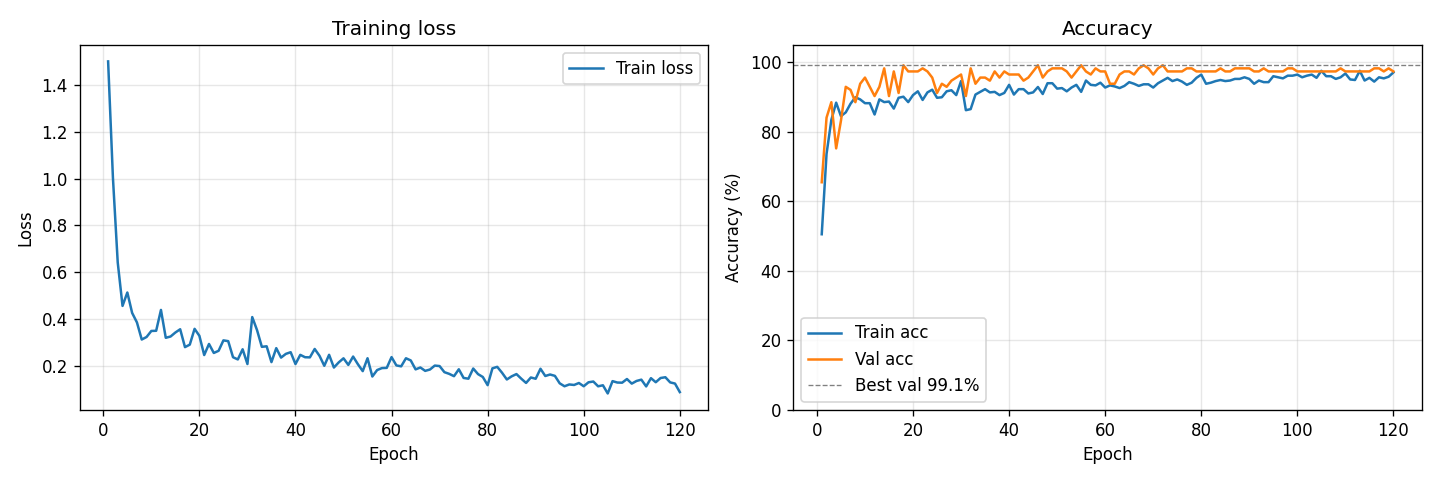
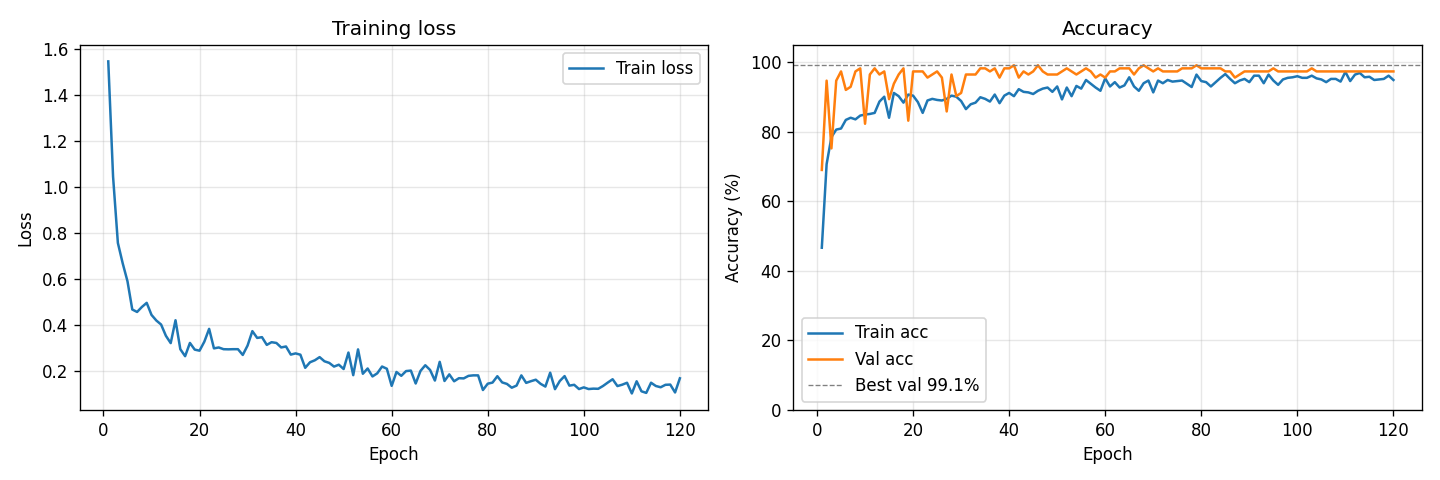
improved again

diff --git a/src/composables/useVoiceInput.js b/src/composables/useVoiceInput.js
@@ -29,16 +29,34 @@ export function useVoiceInput({ lang, onNote, micThreshold }) {
   // ── Result handling ──────────────────────────────────────────────
   let heardTimer       = null
   let processingLocked = false
-  let lastNoteAt       = 0          // debounce: ms timestamp of last accepted note
-  const DEBOUNCE_MS    = 700        // ignore new detections for this long after a hit
+  let lastNoteAt       = 0     // debounce: ms timestamp of last accepted note
+  const DEBOUNCE_MS    = 700
+
+  // Temporal smoothing: require SMOOTH_N consecutive windows to agree before firing.
+  // Kills one-off wrong detections from ambiguous window positions.
+  const SMOOTH_N   = 2
+  let predHistory  = []   // recent [noteIdx, ...] (reset on null or mismatch)
 
   function handleResult({ note, label, conf }) {
     processingLocked = false
-    if (note === null || note === undefined) return
+
+    if (note === null || note === undefined) {
+      predHistory = []   // ambiguous window — reset streak
+      return
+    }
+
+    // Maintain a streak of identical predictions
+    if (predHistory.length > 0 && predHistory[predHistory.length - 1] !== note) {
+      predHistory = []   // different note — start fresh
+    }
+    predHistory.push(note)
+
+    if (predHistory.length < SMOOTH_N) return   // not enough agreement yet
 
     const now = performance.now()
-    if (now - lastNoteAt < DEBOUNCE_MS) return   // too soon after last accepted note
-    lastNoteAt = now
+    if (now - lastNoteAt < DEBOUNCE_MS) return
+    lastNoteAt  = now
+    predHistory = []
 
     rawTranscript.value = label
     lastHeard.value     = label

diff --git a/src/workers/kwsWorker.js b/src/workers/kwsWorker.js
@@ -94,23 +94,26 @@ function extractFeatures(samples) {
   const aligned = trimLeadingSilence(samples)
   const S = melSpec(aligned)   // (n_mels × n_frames)
 
-  const gMean = new Float32Array(n_mels)
-  const gStd  = new Float32Array(n_mels)
-  const oMean = new Float32Array(n_mels)
+  const gMean   = new Float32Array(n_mels)
+  const gStd    = new Float32Array(n_mels)
+  const oMean   = new Float32Array(n_mels)
+  const absDelta = new Float32Array(n_mels)
 
   for (let m = 0; m < n_mels; m++) {
-    let sum = 0, sum2 = 0, osum = 0
+    let sum = 0, sum2 = 0, osum = 0, dsum = 0
     for (let t = 0; t < n_frames; t++) { const v = S[m * n_frames + t]; sum += v; sum2 += v*v }
     for (let t = 0; t < onset_frames; t++) osum += S[m * n_frames + t]
+    for (let t = 0; t < n_frames - 1; t++) dsum += Math.abs(S[m * n_frames + t + 1] - S[m * n_frames + t])
     const mean = sum / n_frames
-    gMean[m] = mean
-    gStd[m]  = Math.sqrt(sum2/n_frames - mean*mean)
-    oMean[m] = osum / onset_frames
+    gMean[m]    = mean
+    gStd[m]     = Math.sqrt(sum2/n_frames - mean*mean)
+    oMean[m]    = osum / onset_frames
+    absDelta[m] = dsum / (n_frames - 1)
   }
 
-  // Concatenate and normalise
-  const feat = new Float32Array(n_mels * 3)
-  feat.set(gMean, 0); feat.set(gStd, n_mels); feat.set(oMean, n_mels * 2)
+  // Concatenate [mean | std | onset | absDelta] and normalise
+  const feat = new Float32Array(n_mels * 4)
+  feat.set(gMean, 0); feat.set(gStd, n_mels); feat.set(oMean, n_mels * 2); feat.set(absDelta, n_mels * 3)
   let fSum = 0, fSum2 = 0
   for (let i = 0; i < feat.length; i++) { fSum += feat[i]; fSum2 += feat[i]*feat[i] }
   const fMu  = fSum / feat.length

diff --git a/train_model.py b/train_model.py
@@ -37,7 +37,7 @@ HOP      = 160      # 10 ms
 N_MELS   = 64
 N_FRAMES = 100      # 1 second
 
-N_FEAT   = N_MELS * 3   # 192: global mean + global std + onset mean
+N_FEAT   = N_MELS * 4   # 256: global mean + global std + onset mean + abs delta
 
 SPLIT_DIR = 'training/split'
 OUT_MODEL = 'public/kws_model.json'
@@ -158,16 +158,21 @@ def mel_spec(samples):
 
 def extract_features(samples):
     """
-    192-D feature vector — same computation reproduced in the JS worker.
-      [0   : 64]  global mean  of log-mel over time
-      [64  : 128] global std   of log-mel over time
-      [128 : 192] onset  mean  (first 20 frames ≈ 200 ms)
+    256-D feature vector — same computation reproduced in the JS worker.
+      [0   : 64]  global mean     of log-mel over time
+      [64  : 128] global std      of log-mel over time
+      [128 : 192] onset mean      (first 20 frames ≈ 200 ms)
+      [192 : 256] mean abs delta  frame-to-frame change (spectral dynamics)
     """
-    S      = mel_spec(samples)
-    g_mean = S.mean(axis=1)
-    g_std  = S.std(axis=1)
-    o_mean = S[:, :20].mean(axis=1)
-    feat   = np.concatenate([g_mean, g_std, o_mean])
+    S       = mel_spec(samples)
+    g_mean  = S.mean(axis=1)
+    g_std   = S.std(axis=1)
+    o_mean  = S[:, :20].mean(axis=1)
+    # Mean absolute frame-to-frame difference per mel band.
+    # Distinguishes notes sharing the same vowel (do/sol, fa/la, mi/si):
+    # e.g. sol has a /l/ closure that raises dynamics in the upper half.
+    abs_delta = np.abs(np.diff(S, axis=1)).mean(axis=1)
+    feat    = np.concatenate([g_mean, g_std, o_mean, abs_delta])
     mu, sig = feat.mean(), feat.std() + 1e-6
     return (feat - mu) / sig
 